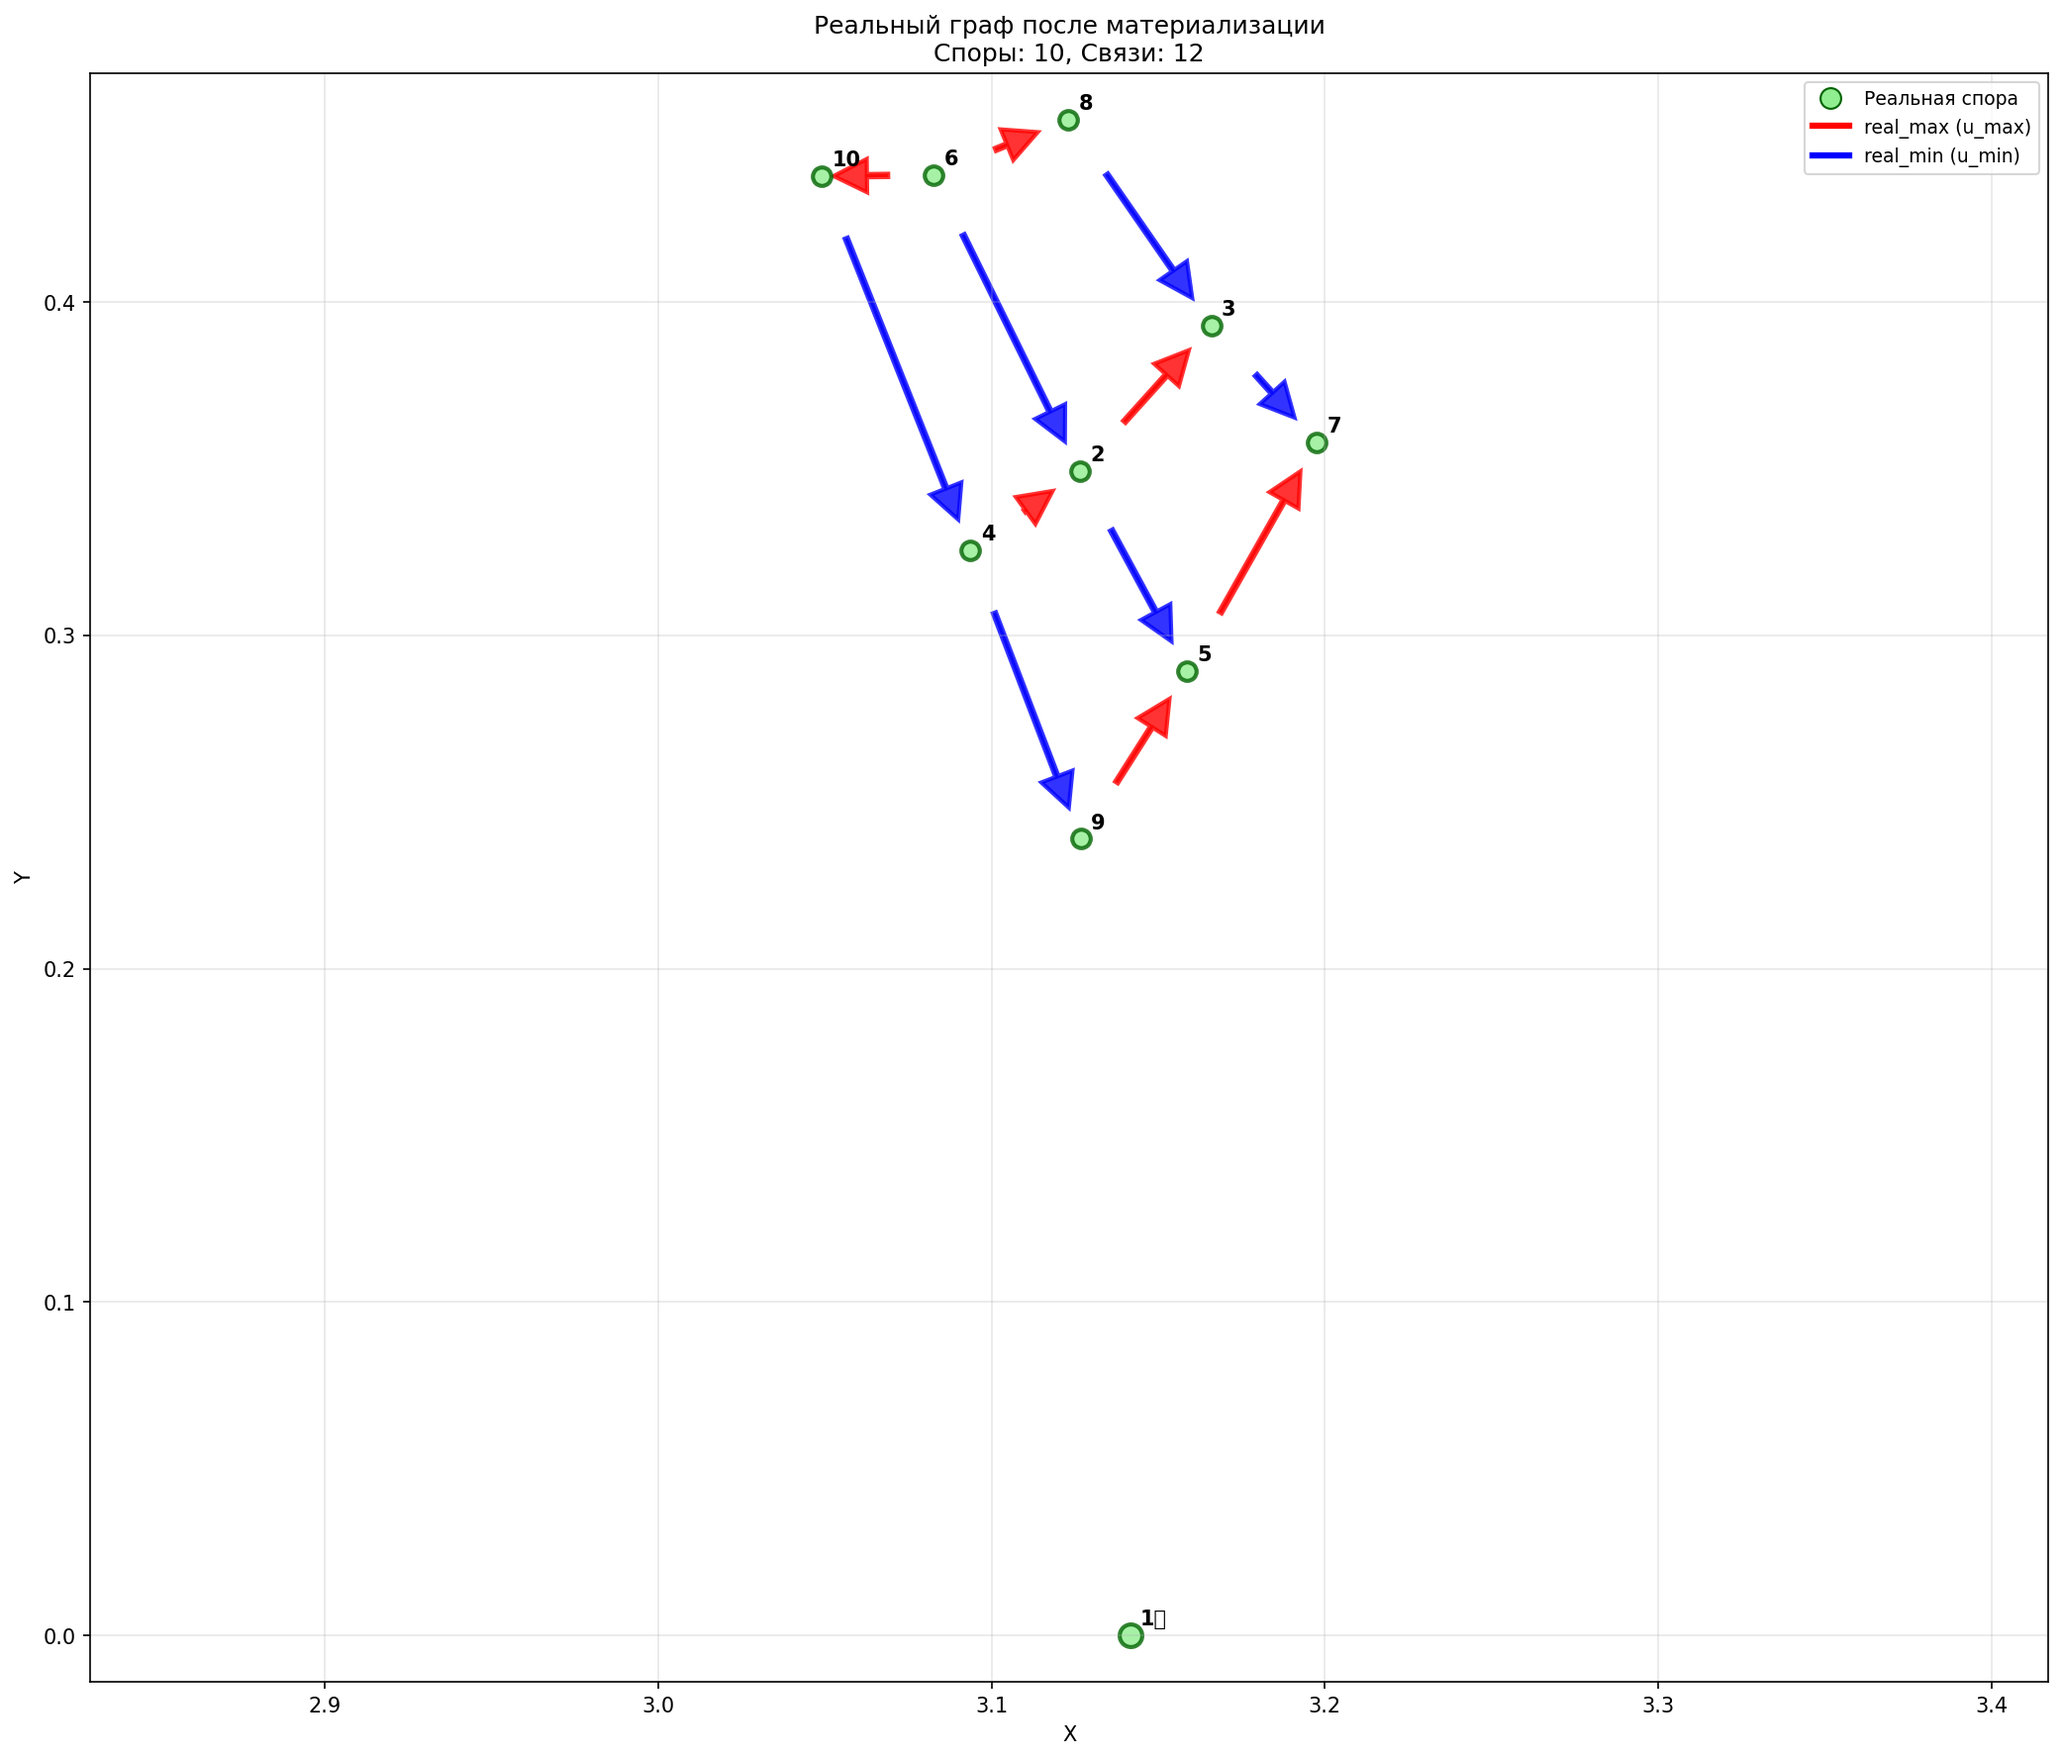
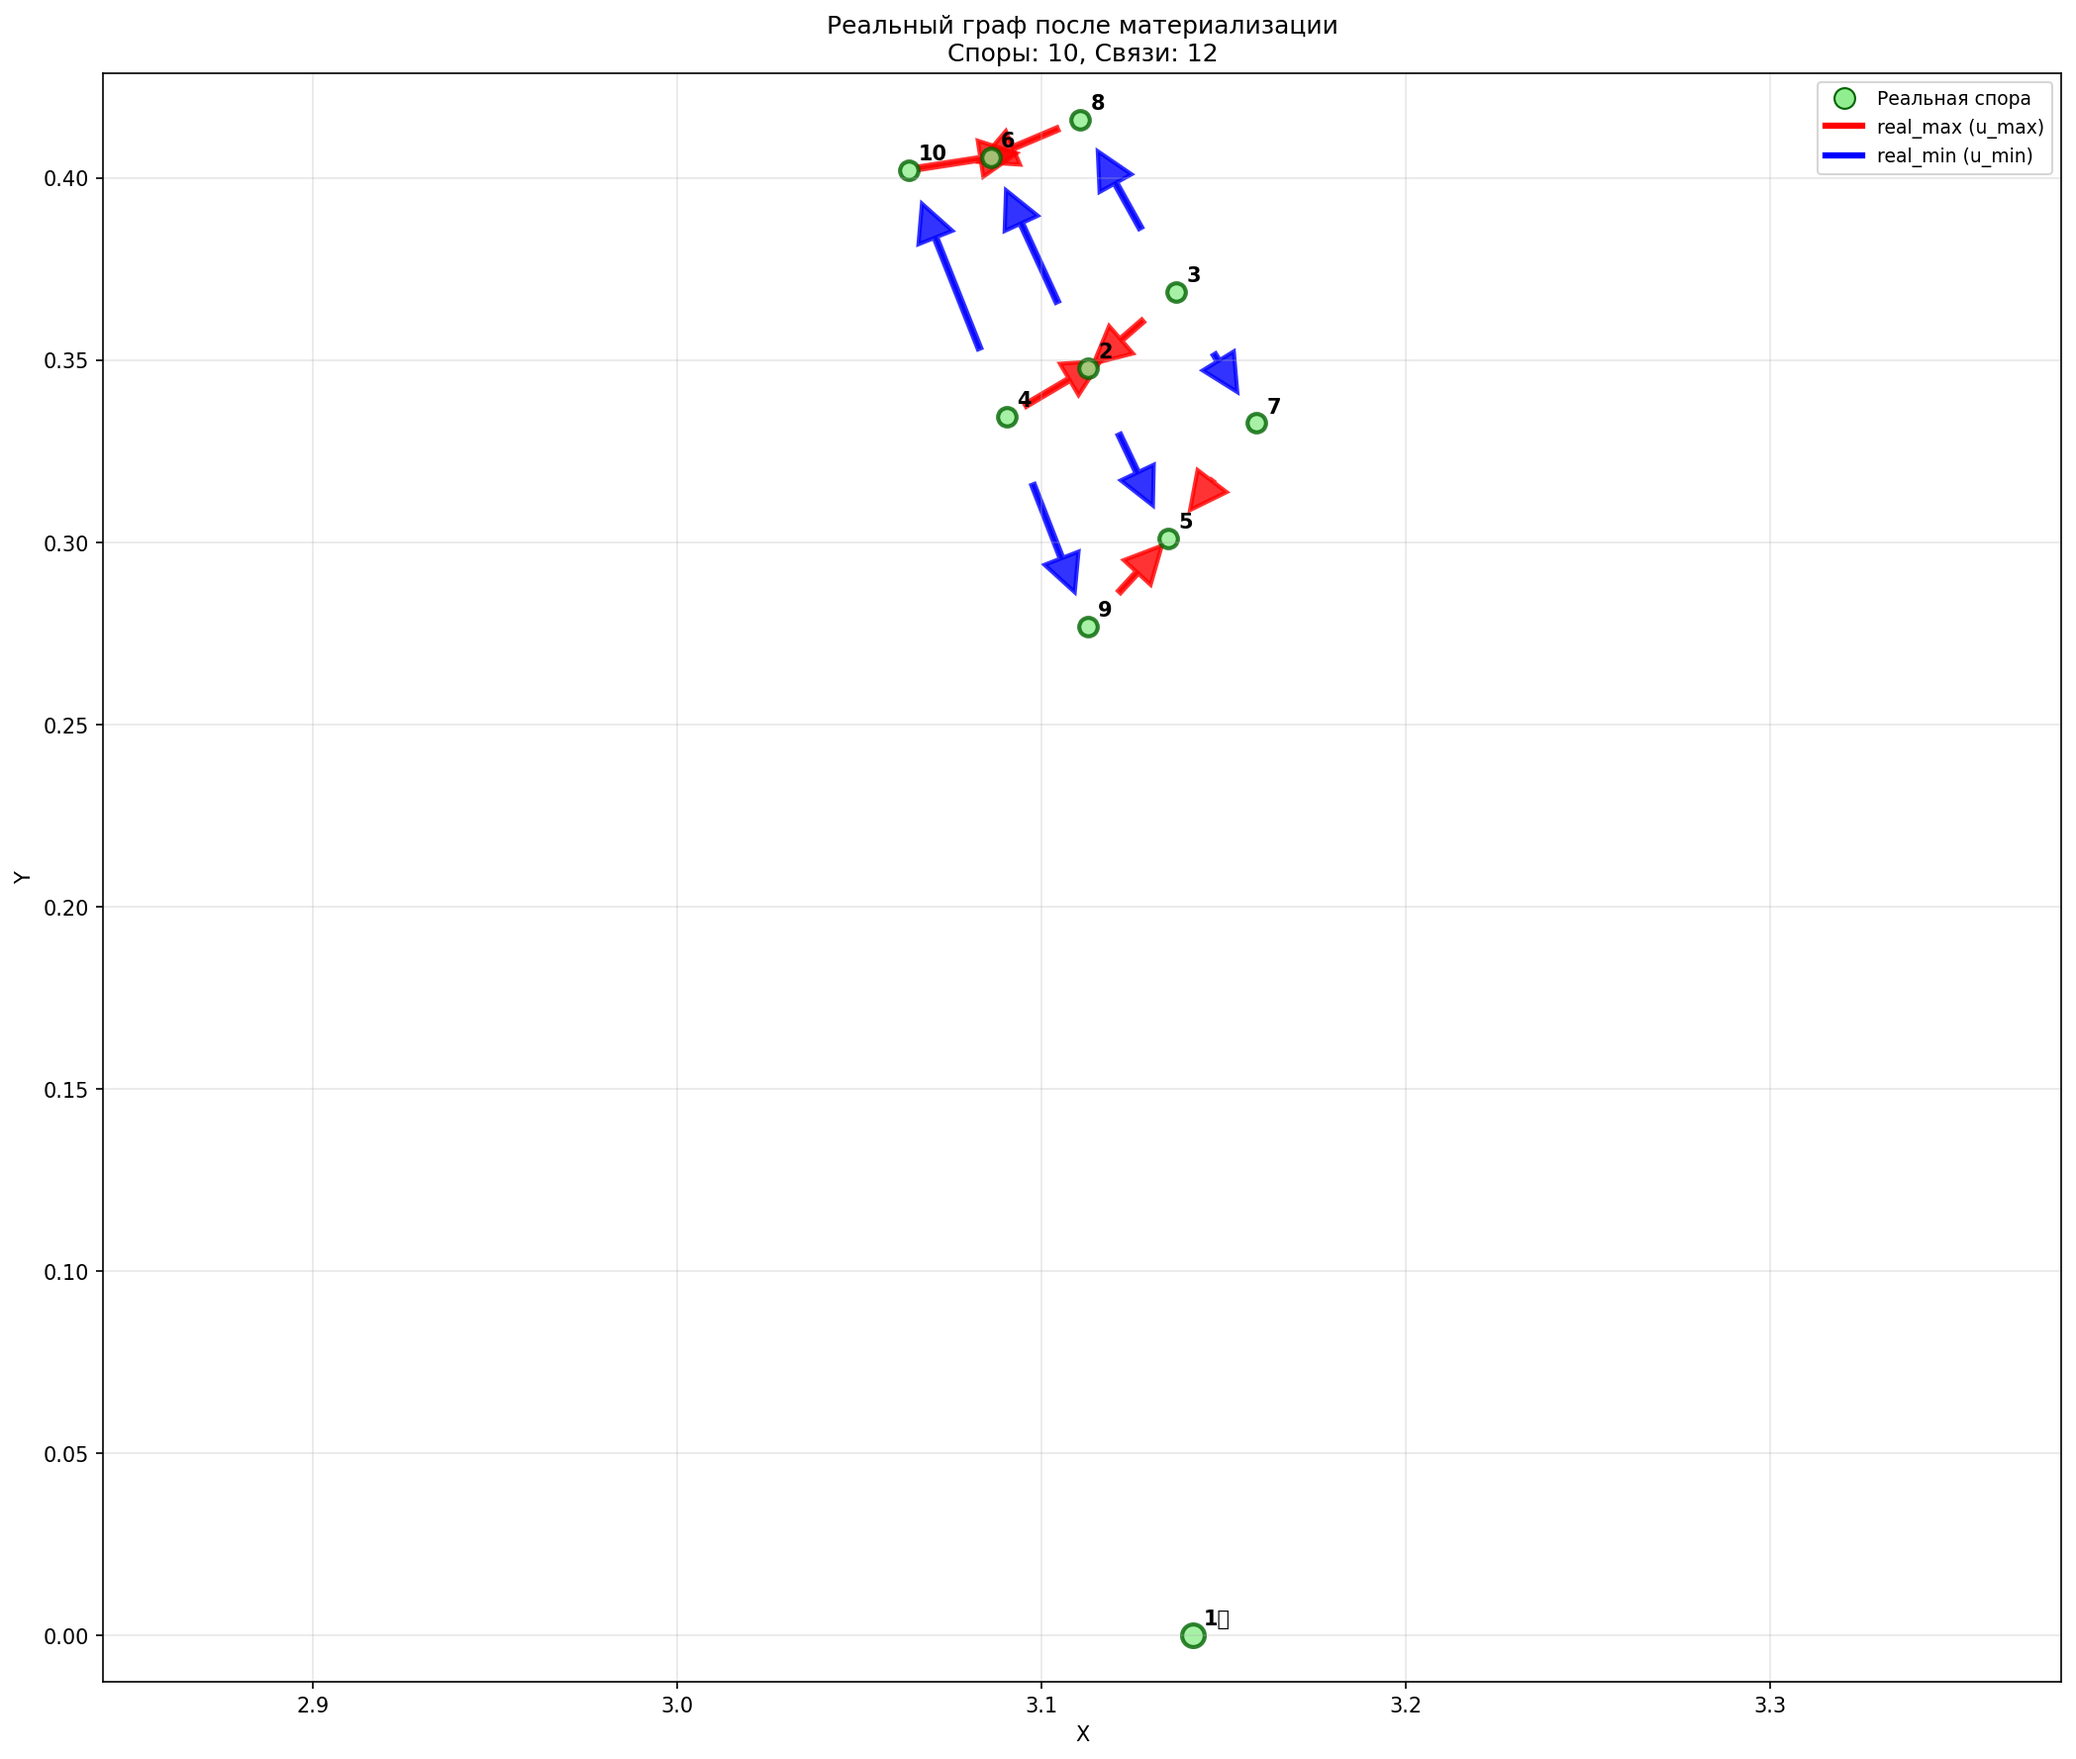
Линки неверно рисуются

diff --git a/spores/v16_picker/src/managers/buffer_merge_manager.py b/spores/v16_picker/src/managers/buffer_merge_manager.py
@@ -369,16 +369,11 @@ class BufferMergeManager:
             control = child_data.get('control', 0)
             link_type = 'buffer_max' if control > 0 else 'buffer_min'
             
-            # Определяем направление по dt
+            # Стрелка всегда показывает: откуда → куда ведет управление
+            # Для корень-ребенок: всегда корень → ребенок (независимо от dt)
             dt = child_data.get('dt', 0)
-            if dt > 0:
-                # dt > 0: корень → ребенок
-                parent_id, child_id = root_buffer_id, child_buffer_id
-                direction = "→"
-            else:
-                # dt < 0: ребенок → корень  
-                parent_id, child_id = child_buffer_id, root_buffer_id
-                direction = "←"
+            parent_id, child_id = root_buffer_id, child_buffer_id
+            direction = "→"
             
             # Создаем связь
             link = {
@@ -425,16 +420,11 @@ class BufferMergeManager:
             control = grandchild_data.get('control', 0)
             link_type = 'buffer_max' if control > 0 else 'buffer_min'
             
-            # Определяем направление по dt
-            dt = grandchild_data.get('dt', 0)
-            if dt > 0:
-                # dt > 0: ребенок → внук
-                parent_id, child_id = parent_buffer_id, grandchild_buffer_id
-                direction = "→"
-            else:
-                # dt < 0: внук → ребенок
-                parent_id, child_id = grandchild_buffer_id, parent_buffer_id
-                direction = "←"
+            # Направление стрелки всегда показывает логическую связь:
+            # ребенок (решение) → внук (результат управления)
+            dt = grandchild_data.get('dt', 0)  # Получаем dt для source_info
+            parent_id, child_id = parent_buffer_id, grandchild_buffer_id
+            direction = "→"
             
             # Проверяем на дублирование связи (может быть при объединении)
             existing_link = self._find_existing_link(parent_id, child_id, link_type)
@@ -1048,6 +1038,22 @@ class BufferMergeManager:
                     color_manager=spore_manager.color_manager,
                     config=spore_manager.config
                 )
+                
+                # 🔍 ДИАГНОСТИКА СОЗДАНИЯ РЕАЛЬНОЙ СВЯЗИ
+                print(f"      🔍 ДЕТАЛЬНАЯ ДИАГНОСТИКА:")
+                print(f"         Буферная связь: {parent_buffer_id} → {child_buffer_id} ({link_type})")
+                print(f"         parent_spore: {parent_spore.id} в позиции {parent_spore.calc_2d_pos()}")
+                print(f"         child_spore: {child_spore.id} в позиции {child_spore.calc_2d_pos()}")
+                print(f"         Созданный Link:")
+                print(f"           link.parent_spore.id = {visual_link.parent_spore.id}")
+                print(f"           link.child_spore.id = {visual_link.child_spore.id}")
+                
+                # Проверим что направление Link соответствует ожиданию
+                expected_direction = f"{parent_buffer_id} → {child_buffer_id}"
+                actual_direction = f"{visual_link.parent_spore.id} → {visual_link.child_spore.id}"
+                match = "✅" if expected_direction.replace("buffer_", "real_") == actual_direction else "❌"
+                print(f"         {match} Ожидали: {expected_direction}")
+                print(f"         {match} Получили: {actual_direction}")
                 
                 # Устанавливаем цвет после создания
                 visual_link.color = spore_manager.color_manager.get_color('link', color_key)
